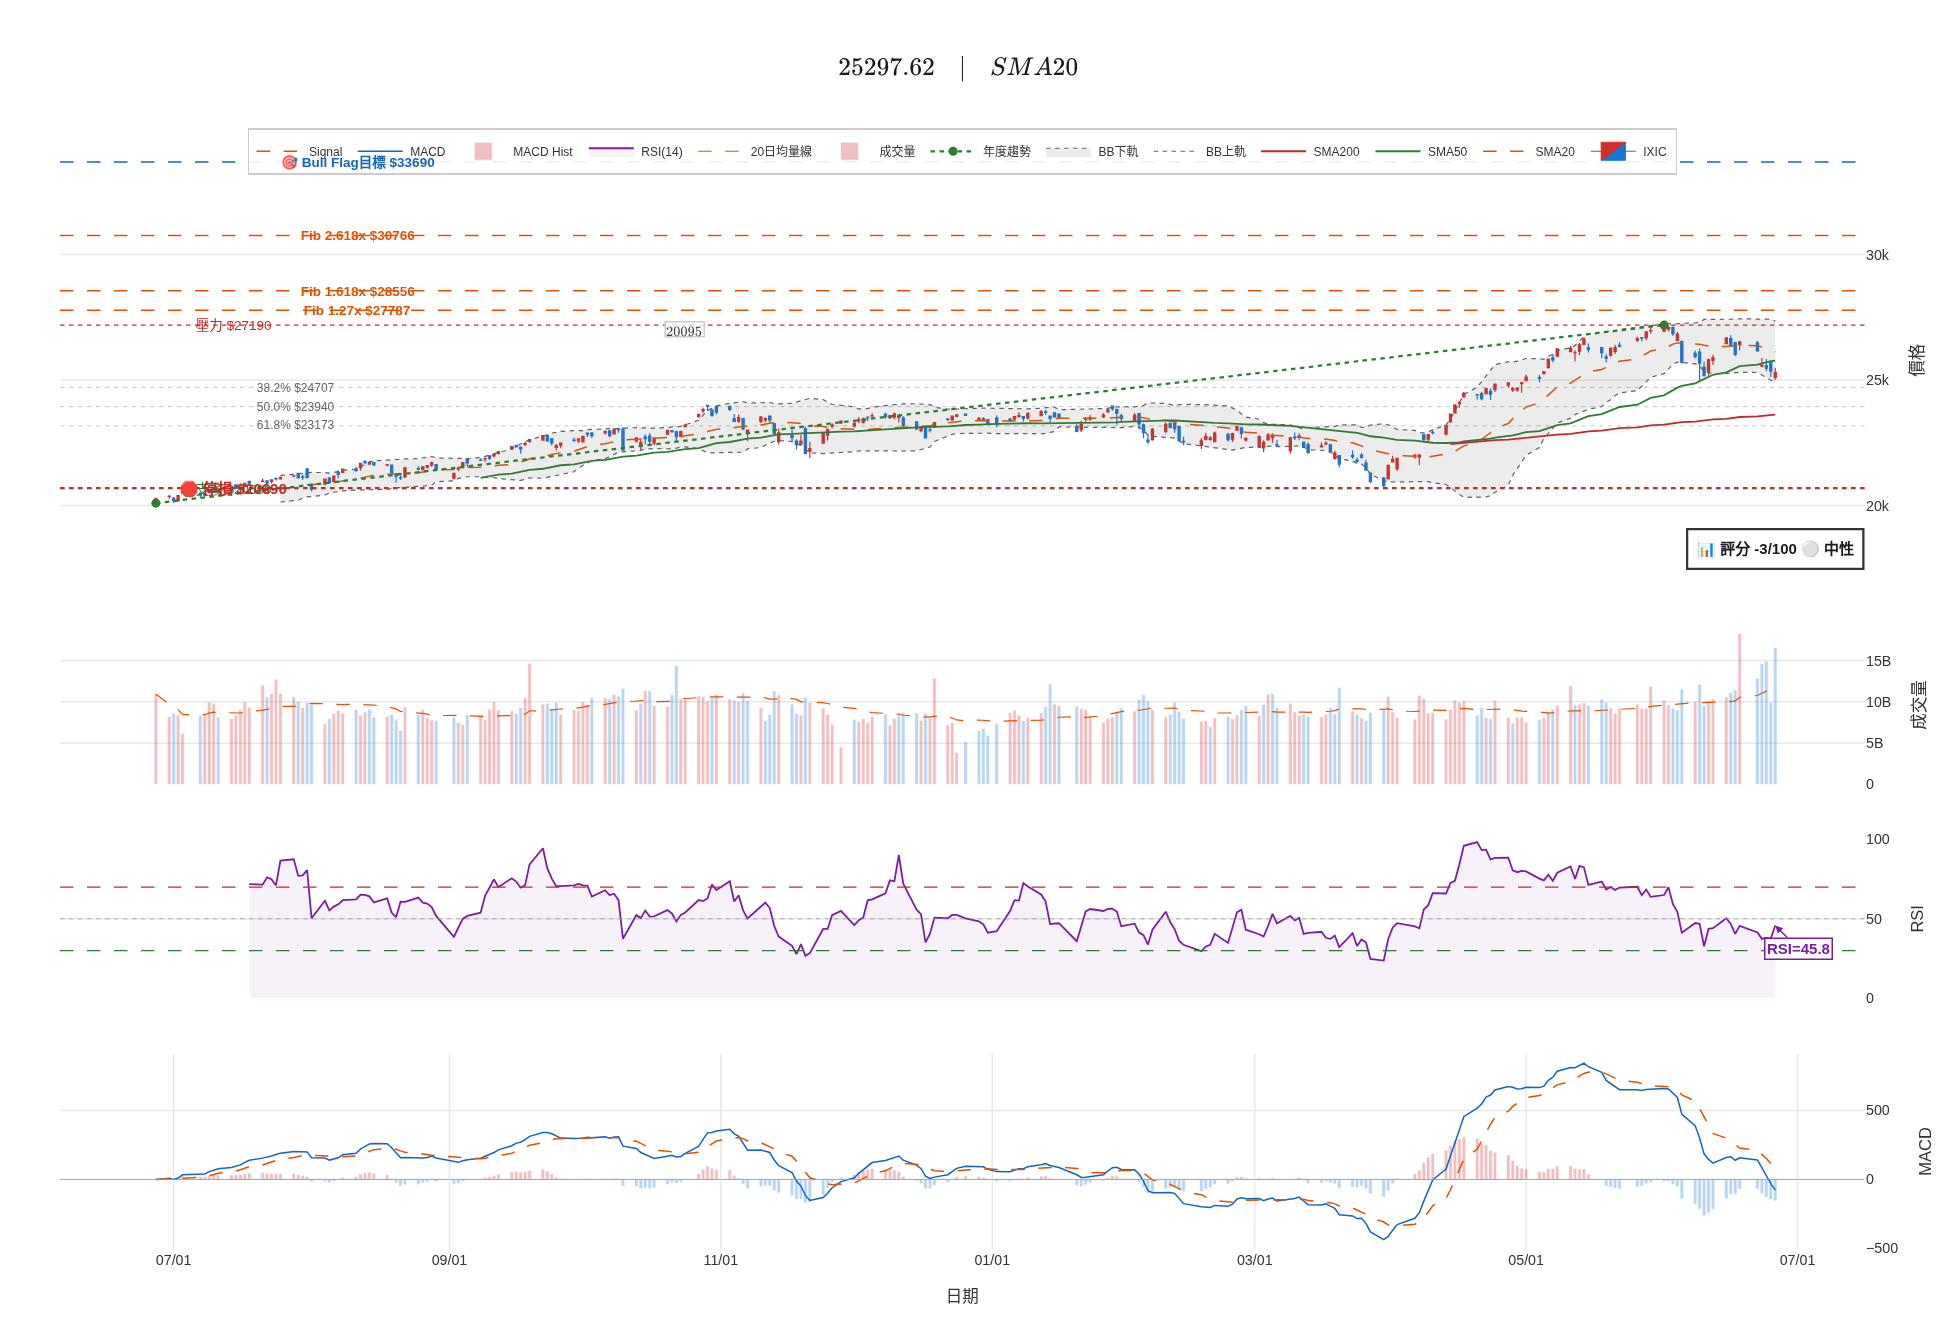
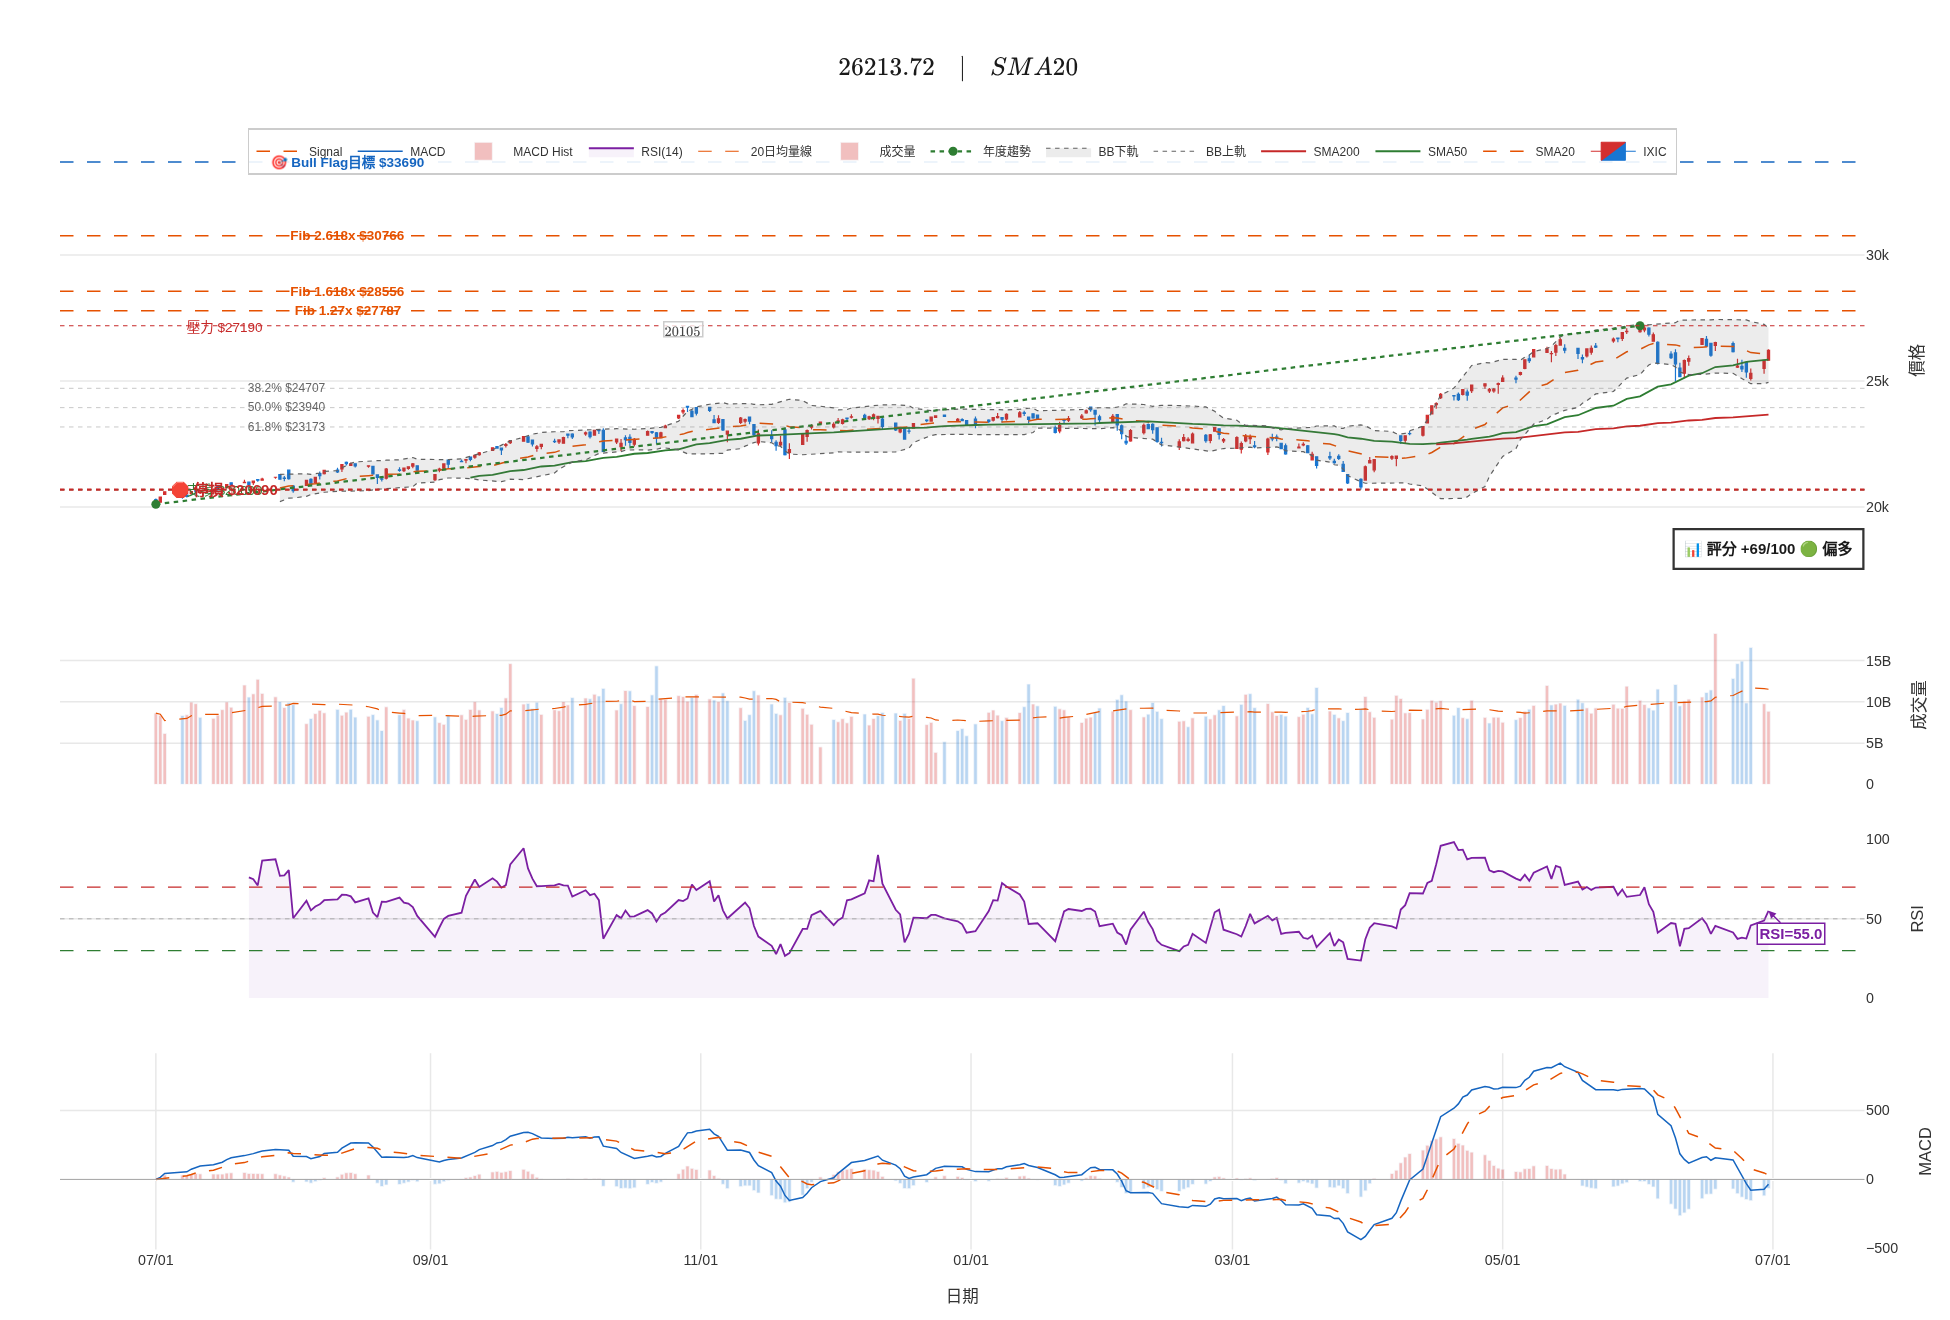
charts: 更新 2026-07-01 技術圖

diff --git a/charts/index.html b/charts/index.html
@@ -39,27 +39,27 @@ body { font-family:'Noto Sans TC',sans-serif; background:#f5f0e8; color:#1a1714;
   <a href="../">← 回首頁</a>
 </div>
 <div class="container">
-  <div class="date-badge">📅 2026/06/26 — 上週五收盤</div>
+  <div class="date-badge">📅 2026/07/01 — 週三收盤</div>
   <div class="chart-grid">
     <div class="chart-card">
       <img src="dji.png" alt="道瓊工業指數">
-      <div class="info"><h3>道瓊工業指數 DJI</h3><p>51,876.11 (−0.09%) · RSI 61.1</p></div>
+      <div class="info"><h3>道瓊工業指數 DJI</h3><p>52,319.20 (+0.26%) · RSI 65.9</p></div>
     </div>
     <div class="chart-card">
       <img src="sox.png" alt="費城半導體指數">
-      <div class="info"><h3>費城半導體指數 SOX</h3><p>13,203.57 (−5.29%) · RSI 51.7</p></div>
+      <div class="info"><h3>費城半導體指數 SOX</h3><p>14,246.96 (+3.92%) · RSI 60.0</p></div>
     </div>
     <div class="chart-card">
       <img src="ixic.png" alt="納斯達克指數">
-      <div class="info"><h3>納斯達克指數 IXIC</h3><p>25,297.62 (−0.24%) · RSI 42.3</p></div>
+      <div class="info"><h3>納斯達克指數 IXIC</h3><p>26,213.72 (+1.52%) · RSI 55.0</p></div>
     </div>
     <div class="chart-card">
       <img src="tsm.png" alt="台積電 ADR">
-      <div class="info"><h3>台積電 ADR (TSM)</h3><p>$432.35 (−0.61%) · RSI 51.8</p></div>
+      <div class="info"><h3>台積電 ADR (TSM)</h3><p>$477.57 (+4.94%) · RSI 62.7</p></div>
     </div>
     <div class="chart-card">
       <img src="intc.png" alt="Intel">
-      <div class="info"><h3>Intel (INTC)</h3><p>$128.32 (−3.42%) · RSI 56.8</p></div>
+      <div class="info"><h3>Intel (INTC)</h3><p>$139.63 (+6.01%) · RSI 69.2</p></div>
     </div>
     <div class="chart-card" style="cursor:pointer;" onclick="location.href='taiex-technical.html'">
       <div style="height:160px;background:linear-gradient(135deg,#1a1a2e,#16213e);display:flex;align-items:center;justify-content:center;">
